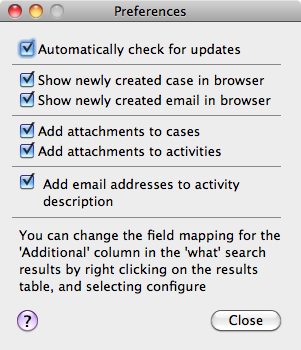
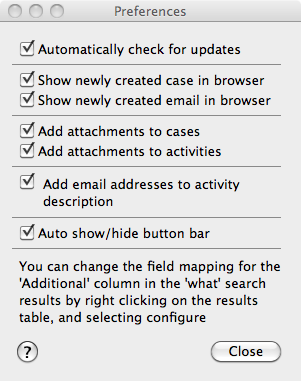
Help updates

diff --git a/onlinehelp/pages/preferences.html b/onlinehelp/pages/preferences.html
@@ -53,6 +53,8 @@
 						<li>"Add attachments to activities", if checked, the attachment list in the Add Email window will default to upload all attachments, if unchecked, the attachment list will default
 							to not upload (in either case, you can select/unselect the attachments on an email by email basis)
 						<li>"Add email addresses to activity description", if checked the from/to addresses for the email will be added to the activity comments.</li>
+						<li>"Auto show/hide button bar", if checked maildrop will automatically move the buttonbar window to the back if an email client is not the primary application, and bring it to the front when an email client becomes the active application. If you uncheck this, then the buttonbar window will behave just
+							like a standard window.</li>
 					</ol>
 					<p>All of these options default to being checked.	</p>
 					<p>If you want to configure which extra field appears in the 'What' search results, then you can do this by right clicking on the search results table and picking configure columns.

diff --git a/onlinehelp/pages/buttonbar.html b/onlinehelp/pages/buttonbar.html
@@ -53,7 +53,8 @@
 							toggle based on the active application (i.e. if you have Entourage as the foreground
 							application, this will automatically flip to Entourage). You can click this button
 							to manually toggle between the 3.
-						<li>Opens the Maildrop help.
+						<li>Help : Opens the Maildrop online help.
+						<li>Customize: allows you to customize the toolbar, switch to smaller icons, or text only buttons.
 				</p>
 				</div>
 				<p>The ButtonBar will float above the Mail/Entourage/Outlook window for easy access, but will move to the background if some other application is currently active, switching

diff --git a/onlinehelp/index.html b/onlinehelp/index.html
@@ -27,7 +27,7 @@
 				<center>
 					<img src="gfx/splashScreenshot.png" alt="Screenshot of Maildrop in action" />
 					<!-- splashScreenshot.png should be ~200x200 or smaller. -->
-					<h1><img class="icon" src="gfx/icon.png" alt="Maildrop icon" /> Maildrop v2.6</h1>
+					<h1><img class="icon" src="gfx/icon.png" alt="Maildrop icon" /> Maildrop v2.7</h1>
 					<!-- icon.png should be 48x48. -->
 					<h4><a href="http://www.pocketsoap.com/osx/maildrop/">http://www.pocketsoap.com/osx/maildrop/</a></h4>
 				</center>
